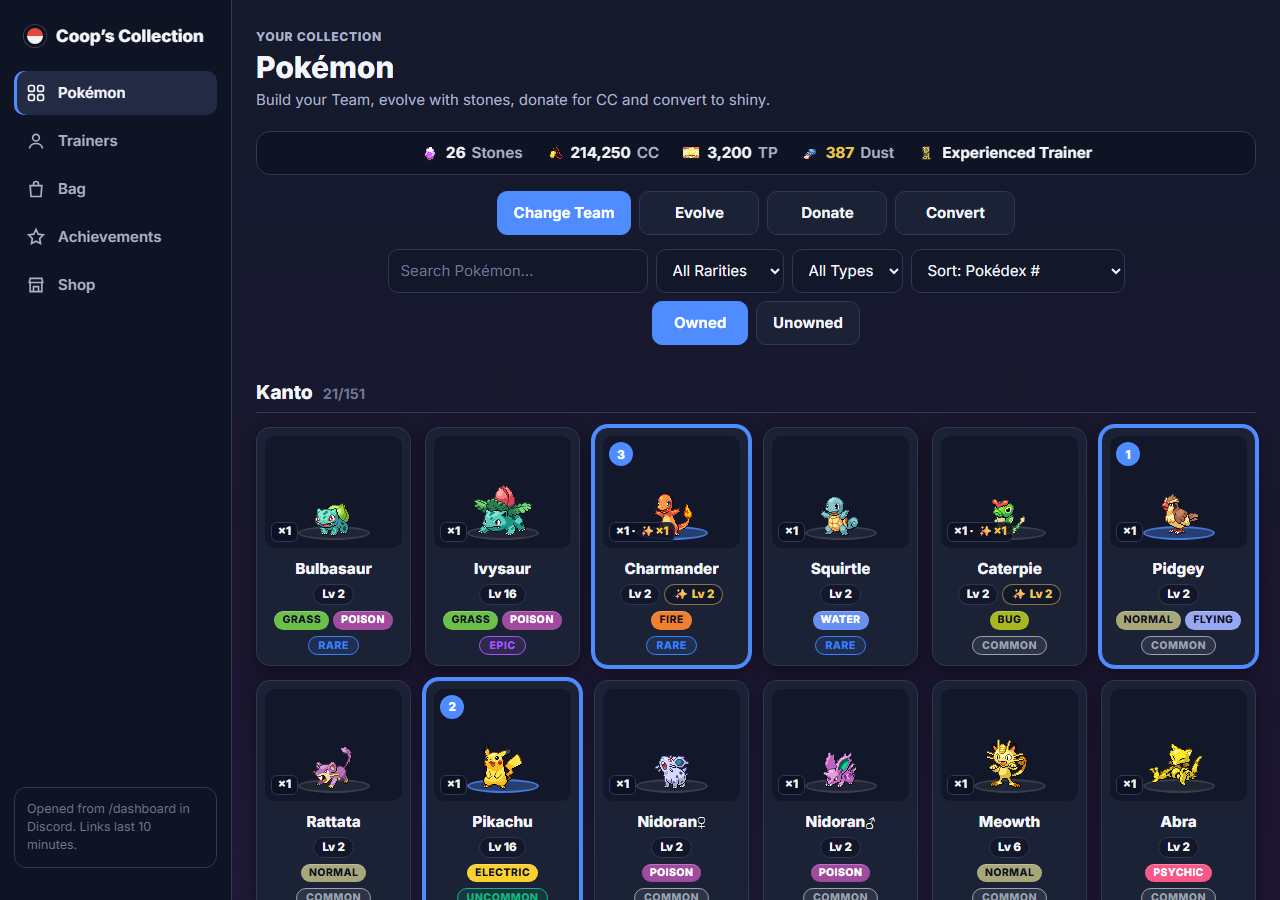
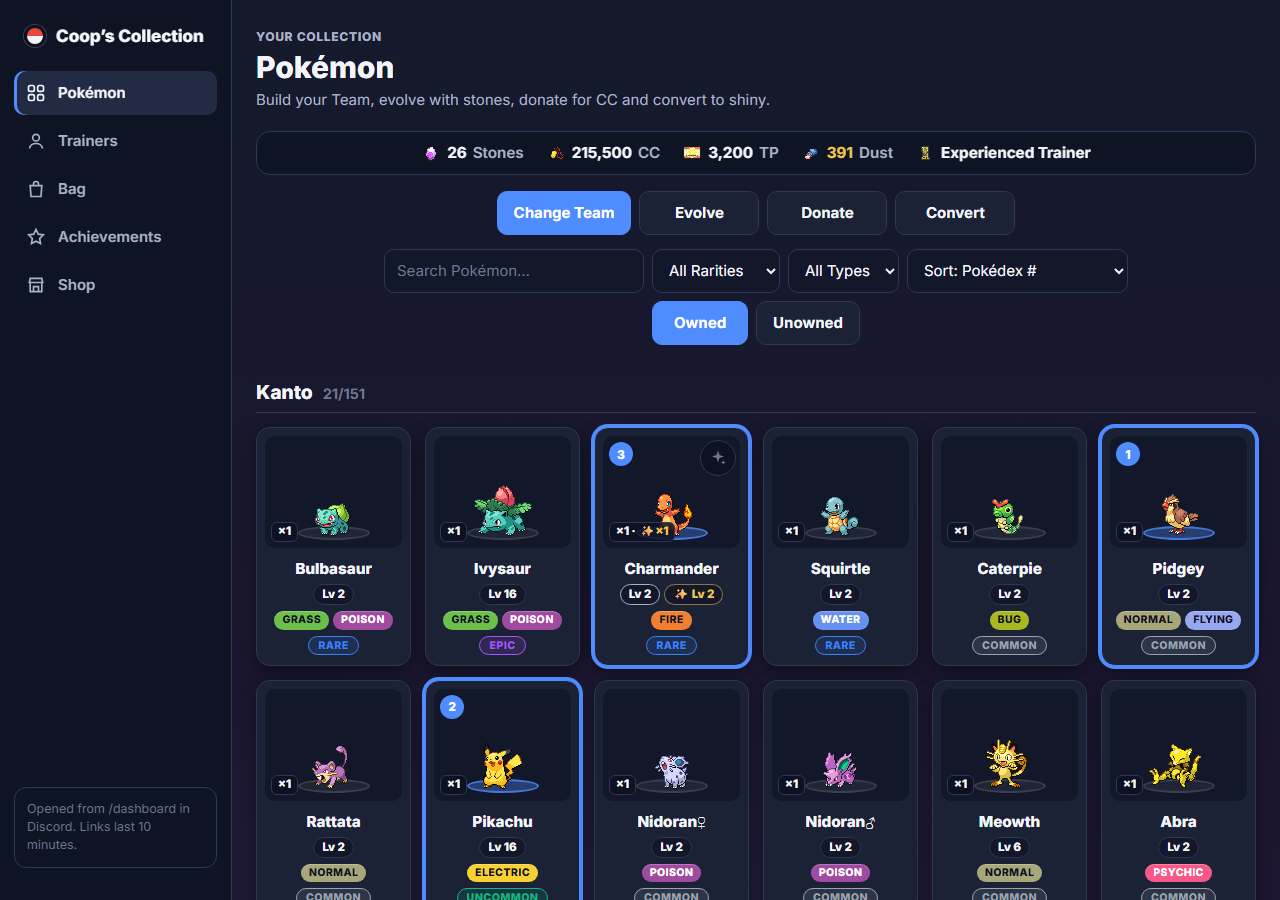
Pokémon page: ✨ normal/shiny toggle on cards; shiny-only defaults to shiny
- Owned cards show the copy you own: a Pokémon owned only as shiny now
  shows its shiny sprite (gold wash + platform) by default, and a Team
  member shows the variant it's on the Team as.
- Cards owning both copies get a ✨ toggle (aria-pressed, 44 px hit area)
  that flips the sprite. The shown copy is the one actions use:
  Change Team adds it directly (no variant picker; toggling a Team
  member switches its slot, unsaved until Save Team), Donate goes
  straight to a confirm that names the copy, Evolve starts on it.
- Grayscale now means unowned only; locked owned cards are dimmed.
- Missing sprite art falls back to the Poké Ball, never to the other variant.
- Removes the now-unused variant-choice modal.

Dashboard only; no API change.

diff --git a/public/picker-pokemon/script.js b/public/picker-pokemon/script.js
@@ -38,6 +38,7 @@ import { showMessage, showActionError, showExpired, showBanner, toast, EXPIRED_M
 import { displaySpeciesName, nameMatches } from "/public/shared/names.js";
 
 const LOCK_ICON = `<svg viewBox="0 0 24 24" aria-hidden="true" focusable="false"><path fill="currentColor" d="M7 10V7a5 5 0 0 1 10 0v3h1a1 1 0 0 1 1 1v9a1 1 0 0 1-1 1H6a1 1 0 0 1-1-1v-9a1 1 0 0 1 1-1zm2 0h6V7a3 3 0 0 0-6 0z"/></svg>`;
+const SPARKLE_ICON = `<svg viewBox="0 0 24 24" aria-hidden="true" focusable="false"><path fill="currentColor" d="M12 2l1.9 6.1L20 10l-6.1 1.9L12 18l-1.9-6.1L4 10l6.1-1.9zM19 15l.9 2.1L22 18l-2.1.9L19 21l-.9-2.1L16 18l2.1-.9z"/></svg>`;
 const capitalize = (s) => String(s).charAt(0).toUpperCase() + String(s).slice(1);
 
 // ===========================================================
@@ -576,6 +577,46 @@ function clampTeamTo6Unique() {
 // ===========================================================
 // 🎴 Pokémon Grid Renderer (HARDENED)
 // ===========================================================
+// ===========================================================
+// ✨ Which variant each card shows (and which one actions use)
+// In-memory only. Default: the Team's variant if it's on the Team,
+// shiny if that's the only one owned, otherwise normal. A choice made
+// with the card's toggle sticks while that variant is still owned.
+// ===========================================================
+const viewVariant = new Map(); // Pokémon ID -> "normal" | "shiny"
+
+function defaultVariant(id) {
+  const owned = ownedCounts(id);
+  const slot = selectedTeam[findTeamIndex(id)];
+  if (slot && ownsVariant(id, slot.variant)) return normVariant(slot.variant);
+  return owned.shiny > 0 && owned.normal <= 0 ? "shiny" : "normal";
+}
+
+function variantShown(id) {
+  const chosen = viewVariant.get(Number(id));
+  return chosen && ownsVariant(id, chosen) ? chosen : defaultVariant(id);
+}
+
+function spriteFor(id, variant) {
+  return `/public/sprites/pokemon/${normVariant(variant) === "shiny" ? "shiny" : "normal"}/${id}.gif`;
+}
+
+// Flip a card between its normal and shiny copy (only when both are owned).
+// In Change Team mode, a Pokémon already on the Team switches its slot to
+// that copy too (unsaved until Save Team, like every other Team edit).
+function toggleCardVariant(id) {
+  const pid = Number(id);
+  const next = variantShown(pid) === "shiny" ? "normal" : "shiny";
+  if (!ownsVariant(pid, next)) return;
+  viewVariant.set(pid, next);
+  const idx = findTeamIndex(pid);
+  if (currentMode === "team" && idx >= 0) selectedTeam[idx] = { id: pid, variant: next };
+  renderPokemonGrid();
+  updateTeamCounter();
+  // Keep keyboard focus on the toggle after the re-render.
+  document.querySelector(`.pokemon-card[data-id="${pid}"] .variant-toggle`)?.focus({ preventScroll: true });
+}
+
 // Highest value among the owned variants of a species (null if none owned).
 // `map` is userData.levels or userData.powers ({ "25:normal": 16 }).
 function bestOwned(map, id) {
@@ -660,14 +701,19 @@ function renderPokemonGrid() {
       locked = owned.normal <= 0 || owned.shiny > 0 || dust < cost || cost <= 0;
     }
 
-    // Sprite path (display normal art as primary; locked uses grayscale).
-    // Multi-select locks cards you own, so they stay in color: grayscale means "unowned".
-    const spritePath = locked && !inMultiSelect
-      ? `/public/sprites/pokemon/grayscale/${id}.gif`
-      : `/public/sprites/pokemon/normal/${id}.gif`;
+    // Sprite: grayscale means "unowned" only. Owned cards show the copy
+    // chosen with the toggle (shiny by default when it's the only one owned);
+    // a locked owned card is dimmed instead of grayed out.
+    const shownVariant = isOwnedAny ? variantShown(id) : "normal";
+    const hasBoth = owned.normal > 0 && owned.shiny > 0;
+    const spritePath = isOwnedAny
+      ? spriteFor(id, shownVariant)
+      : `/public/sprites/pokemon/grayscale/${id}.gif`;
 
     const card = document.createElement("div");
     card.className = `pokemon-card ${isOwnedAny ? "owned" : "unowned"}`;
+    if (shownVariant === "shiny") card.classList.add("shiny-view");
+    if (hasBoth) card.classList.add("has-toggle");
     if (locked) card.classList.add("locked");
     const multiPicked = inMultiSelect && multiSelected.has(id);
     if (multiPicked) card.classList.add("multi-selected");
@@ -743,8 +789,9 @@ function renderPokemonGrid() {
       // Level tag per owned variant, under the name (like the battle screen)
       const lv = (variant) => userData.levels?.[`${id}:${variant}`] ?? "?";
       const tags = [];
-      if (owned.normal > 0) tags.push(`<span class="poke-level">Lv ${lv("normal")}</span>`);
-      if (owned.shiny > 0) tags.push(`<span class="poke-level shiny">✨ Lv ${lv("shiny")}</span>`);
+      const viewing = (v) => (hasBoth && shownVariant === v ? " is-viewing" : "");
+      if (owned.normal > 0) tags.push(`<span class="poke-level${viewing("normal")}">Lv ${lv("normal")}</span>`);
+      if (owned.shiny > 0) tags.push(`<span class="poke-level shiny${viewing("shiny")}">✨ Lv ${lv("shiny")}</span>`);
       levelHTML = `<div class="poke-levels">${tags.join("")}</div>`;
       // While sorting by Power, show the number being sorted on.
       const power = sortOrder.startsWith("power") ? bestPower(id) : null;
@@ -758,6 +805,13 @@ function renderPokemonGrid() {
       <div class="sprite-wrapper">
         <img src="${spritePath}" class="poke-sprite" alt="" loading="lazy">
         ${teamBadgeHTML}
+        ${
+          hasBoth
+            ? `<button type="button" class="variant-toggle" aria-pressed="${shownVariant === "shiny"}"
+                 aria-label="${shownVariant === "shiny" ? `Showing shiny ${name}. Show normal` : `Showing normal ${name}. Show shiny`}"
+                 title="${shownVariant === "shiny" ? "Shiny shown — tap for normal" : "Normal shown — tap for shiny"}">${SPARKLE_ICON}</button>`
+            : ""
+        }
         ${locked ? `<div class="lock-overlay">${LOCK_ICON}</div>` : ""}
         ${multiPicked ? `<div class="multi-check" aria-hidden="true">✓</div>` : ""}
         ${countHTML}
@@ -775,6 +829,7 @@ function renderPokemonGrid() {
     const states = [];
     if (teamIdx >= 0) states.push(`on Team, slot ${teamIdx + 1}`);
     if (multiPicked) states.push("selected");
+    if (shownVariant === "shiny") states.push("shiny");
     if (!isOwnedAny) states.push("not owned");
     else if (locked) states.push("unavailable in this mode");
     card.tabIndex = 0;
@@ -788,6 +843,17 @@ function renderPokemonGrid() {
       if (locked) return showBlockedActionModal(id);
       onPokemonClick(id);
     });
+
+    // The ✨ toggle only changes the copy shown (and used); it never
+    // triggers the card's own action.
+    card.querySelector(".variant-toggle")?.addEventListener("click", (e) => {
+      e.stopPropagation();
+      toggleCardVariant(id);
+    });
+    // Missing shiny art never silently falls back to the normal sprite.
+    card.querySelector(".poke-sprite").addEventListener("error", (e) => {
+      e.currentTarget.src = "/public/sprites/items/pokeball.png";
+    }, { once: true });
 
     (cardsByRegion[p.region] ??= []).push(card);
     sortable.push({ id, card });
@@ -885,19 +951,15 @@ function toggleTeamSelection(id) {
     return;
   }
 
-  // Owns both -> choose variant
-  openVariantChoiceModal({
-    title: "⭐ Choose Variant for Team",
-    pokeId: pid,
-    onChoose: (variant) => {
-      // TEAM RULE: ensure only one slot for this Pokémon
-      selectedTeam = selectedTeam.filter((s) => Number(s.id) !== pid);
-      selectedTeam.push({ id: pid, variant: normVariant(variant) });
-      clampTeamTo6Unique();
-      renderPokemonGrid();
-      updateTeamCounter();
-    },
-  });
+  // Owns both -> add the copy the card is showing (chosen with its ✨ toggle).
+  const variant = variantShown(pid);
+  // TEAM RULE: ensure only one slot for this Pokémon
+  selectedTeam = selectedTeam.filter((s) => Number(s.id) !== pid);
+  selectedTeam.push({ id: pid, variant });
+  viewVariant.set(pid, variant);
+  clampTeamTo6Unique();
+  renderPokemonGrid();
+  updateTeamCounter();
 }
 
 function updateTeamCounter() {
@@ -1320,80 +1382,6 @@ function showBlockedActionModal(pokeId) {
 }
 
 // ===========================================================
-// ⭐ Variant Choice Modal (Team / Donate entrypoint)
-// ===========================================================
-function openVariantChoiceModal({ title, pokeId, onChoose }) {
-  const p = pokemonData[pokeId];
-  if (!p) return;
-
-  const owned = ownedCounts(pokeId);
-  const overlay = createOverlay();
-
-  const modal = document.createElement("div");
-  modal.style.cssText = `
-    background: var(--card);
-    border: 2px solid var(--brand);
-    border-radius: 14px;
-    padding: 1.5rem 1.75rem;
-    text-align: center;
-    max-width: 520px;
-    width: 92%;
-  `;
-
-  const normalSprite = `/public/sprites/pokemon/normal/${pokeId}.gif`;
-  const shinySprite = `/public/sprites/pokemon/shiny/${pokeId}.gif`;
-
-  const normalBtn =
-    owned.normal > 0
-      ? `<button class="pick-normal" style="background: var(--brand); color: var(--bg); border:none; padding:10px 14px; border-radius:10px; font-weight:800; cursor:pointer;">Use Normal (x${owned.normal})</button>`
-      : `<button disabled style="background:var(--cc-surface-sunken); color:var(--cc-text-faint); border:none; padding:10px 14px; border-radius:10px; font-weight:800;">Normal (x0)</button>`;
-
-  const shinyBtn =
-    owned.shiny > 0
-      ? `<button class="pick-shiny" style="background: var(--cc-gold); color: var(--bg); border:none; padding:10px 14px; border-radius:10px; font-weight:900; cursor:pointer;">Use Shiny (✨x${owned.shiny})</button>`
-      : `<button disabled style="background:var(--cc-surface-sunken); color:var(--cc-text-faint); border:none; padding:10px 14px; border-radius:10px; font-weight:900;">Shiny (✨x0)</button>`;
-
-  modal.innerHTML = `
-    <h2 style="color: var(--brand); margin:0 0 0.75rem;">${title}</h2>
-    <p style="color:var(--cc-text-muted);margin:0 0 1rem;">${p.name}</p>
-
-    <div style="display:flex;gap:1rem;justify-content:center;flex-wrap:wrap;margin-bottom:1rem;">
-      <div style="background:var(--cc-surface-sunken);border:1px solid var(--border);border-radius:12px;padding:12px;min-width:180px;">
-        <img src="${normalSprite}" style="width:96px;height:96px;image-rendering:pixelated;">
-        <div style="margin-top:8px;">${normalBtn}</div>
-      </div>
-
-      <div style="background:var(--cc-surface-sunken);border:1px solid var(--border);border-radius:12px;padding:12px;min-width:180px;">
-        <img src="${shinySprite}" style="width:96px;height:96px;image-rendering:pixelated;">
-        <div style="margin-top:8px;">${shinyBtn}</div>
-      </div>
-    </div>
-
-    <button class="cancel-btn" style="background: var(--cc-surface-raised); color: var(--cc-text); border: none; padding: 10px 22px; border-radius: 10px; cursor: pointer; font-weight:700;">
-      Cancel
-    </button>
-  `;
-
-  modal.querySelector(".cancel-btn").addEventListener("click", () => closeOverlay(overlay));
-
-  const bn = modal.querySelector(".pick-normal");
-  const bs = modal.querySelector(".pick-shiny");
-
-  if (bn)
-    bn.addEventListener("click", () => {
-      closeOverlay(overlay);
-      onChoose?.("normal");
-    });
-  if (bs)
-    bs.addEventListener("click", () => {
-      closeOverlay(overlay);
-      onChoose?.("shiny");
-    });
-
-  overlay.appendChild(modal);
-}
-
-// ===========================================================
 // ✨ Convert Modal + Confirm
 // ===========================================================
 function openConvertModal(pokeId) {
@@ -1534,7 +1522,8 @@ function openEvolutionModal(baseId) {
     max-width: 640px; width: 92%;
   `;
 
-  let chosenVariant = owned.normal > 0 ? "normal" : "shiny";
+  // Start on the copy the card shows (its ✨ toggle); the modal can still switch.
+  let chosenVariant = variantShown(baseId);
 
   const baseSpriteFor = (v) =>
     v === "shiny"
@@ -1786,17 +1775,9 @@ function openDonationModal(pokeId) {
   const owned = ownedCounts(pokeId);
   if (owned.any <= 0) return;
 
-  if (owned.normal > 0 && owned.shiny > 0) {
-    openVariantChoiceModal({
-      title: "💝 Donate — Choose Variant",
-      pokeId,
-      onChoose: (variant) => openDonationConfirmModal(pokeId, variant),
-    });
-    return;
-  }
-
-  const variant = owned.normal > 0 ? "normal" : "shiny";
-  openDonationConfirmModal(pokeId, variant);
+  // Donate the copy the card shows (its ✨ toggle). The confirm dialog
+  // names the variant and shows its sprite before anything is sent.
+  openDonationConfirmModal(pokeId, variantShown(pokeId));
 }
 
 function openDonationConfirmModal(pokeId, variant) {
@@ -1828,6 +1809,7 @@ function openDonationConfirmModal(pokeId, variant) {
     <p style="margin-top:-0.25rem;color:var(--cc-text-muted);font-weight:700;">
       Variant: ${v === "shiny" ? "✨ Shiny" : "Normal"}
     </p>
+    ${ownedCounts(pokeId).normal > 0 && ownedCounts(pokeId).shiny > 0 ? `<p style="color:var(--cc-text-faint);font-size:0.85rem;margin-top:-0.25rem;">You own both. To donate the ${v === "shiny" ? "normal" : "shiny"} one instead, cancel and tap ✨ on the card.</p>` : ""}
     <p>You'll receive <b style="color: var(--cc-gold);">💰 ${ccValue} CC</b></p>
     ${
       dustPreview > 0

diff --git a/public/picker-pokemon/style.css b/public/picker-pokemon/style.css
@@ -226,6 +226,43 @@ main:focus { outline: none; }
   box-shadow: var(--cc-ring-gold), var(--cc-shadow);
 }
 
+/* Shiny shown: faint gold wash + gold platform (DESIGN-SYSTEM.md §5) */
+.pokemon-card.shiny-view .sprite-wrapper {
+  background: radial-gradient(circle at 50% 65%, #f5c84c2e, transparent 62%), var(--cc-surface-sunken);
+}
+.pokemon-card.shiny-view .sprite-wrapper::after { background: #f5c84c33; border-color: #f5c84c88; }
+.pokemon-card.shiny-view:not(.selected):not(.multi-selected) { border-color: #f5c84c80; }
+
+/* ✨ normal/shiny toggle: 36 px visual, 44 px hit area */
+.variant-toggle {
+  position: absolute;
+  top: 4px;
+  right: 4px;
+  z-index: 3;
+  width: 36px;
+  height: 36px;
+  min-height: 0;
+  padding: 0;
+  display: grid;
+  place-items: center;
+  border-radius: 50%;
+  border: 1.5px solid var(--cc-line);
+  background: #0e1120d9;
+  color: var(--cc-text-faint);
+  transition: background 0.15s ease, color 0.15s ease, border-color 0.15s ease;
+}
+.variant-toggle::before { content: ""; position: absolute; inset: -4px; } /* 44 px target */
+.variant-toggle svg { width: 18px; height: 18px; }
+.variant-toggle:hover { color: var(--cc-gold); border-color: #f5c84c88; }
+.variant-toggle[aria-pressed="true"] { background: var(--cc-gold); border-color: var(--cc-gold); color: var(--cc-ink); }
+.variant-toggle:focus-visible { outline: 2px solid var(--cc-blue); outline-offset: 2px; }
+/* Keep the lock / multi-select check clear of the toggle */
+.pokemon-card.has-toggle .lock-overlay, .pokemon-card.has-toggle .multi-check { right: 46px; }
+
+/* Level tag of the copy being shown */
+.poke-level.is-viewing { border-color: var(--cc-text-muted); }
+.poke-level.shiny.is-viewing { border-color: var(--cc-gold); background: #f5c84c1f; }
+
 /* Badges */
 .lock-overlay, .multi-check, .team-badge {
   position: absolute;
